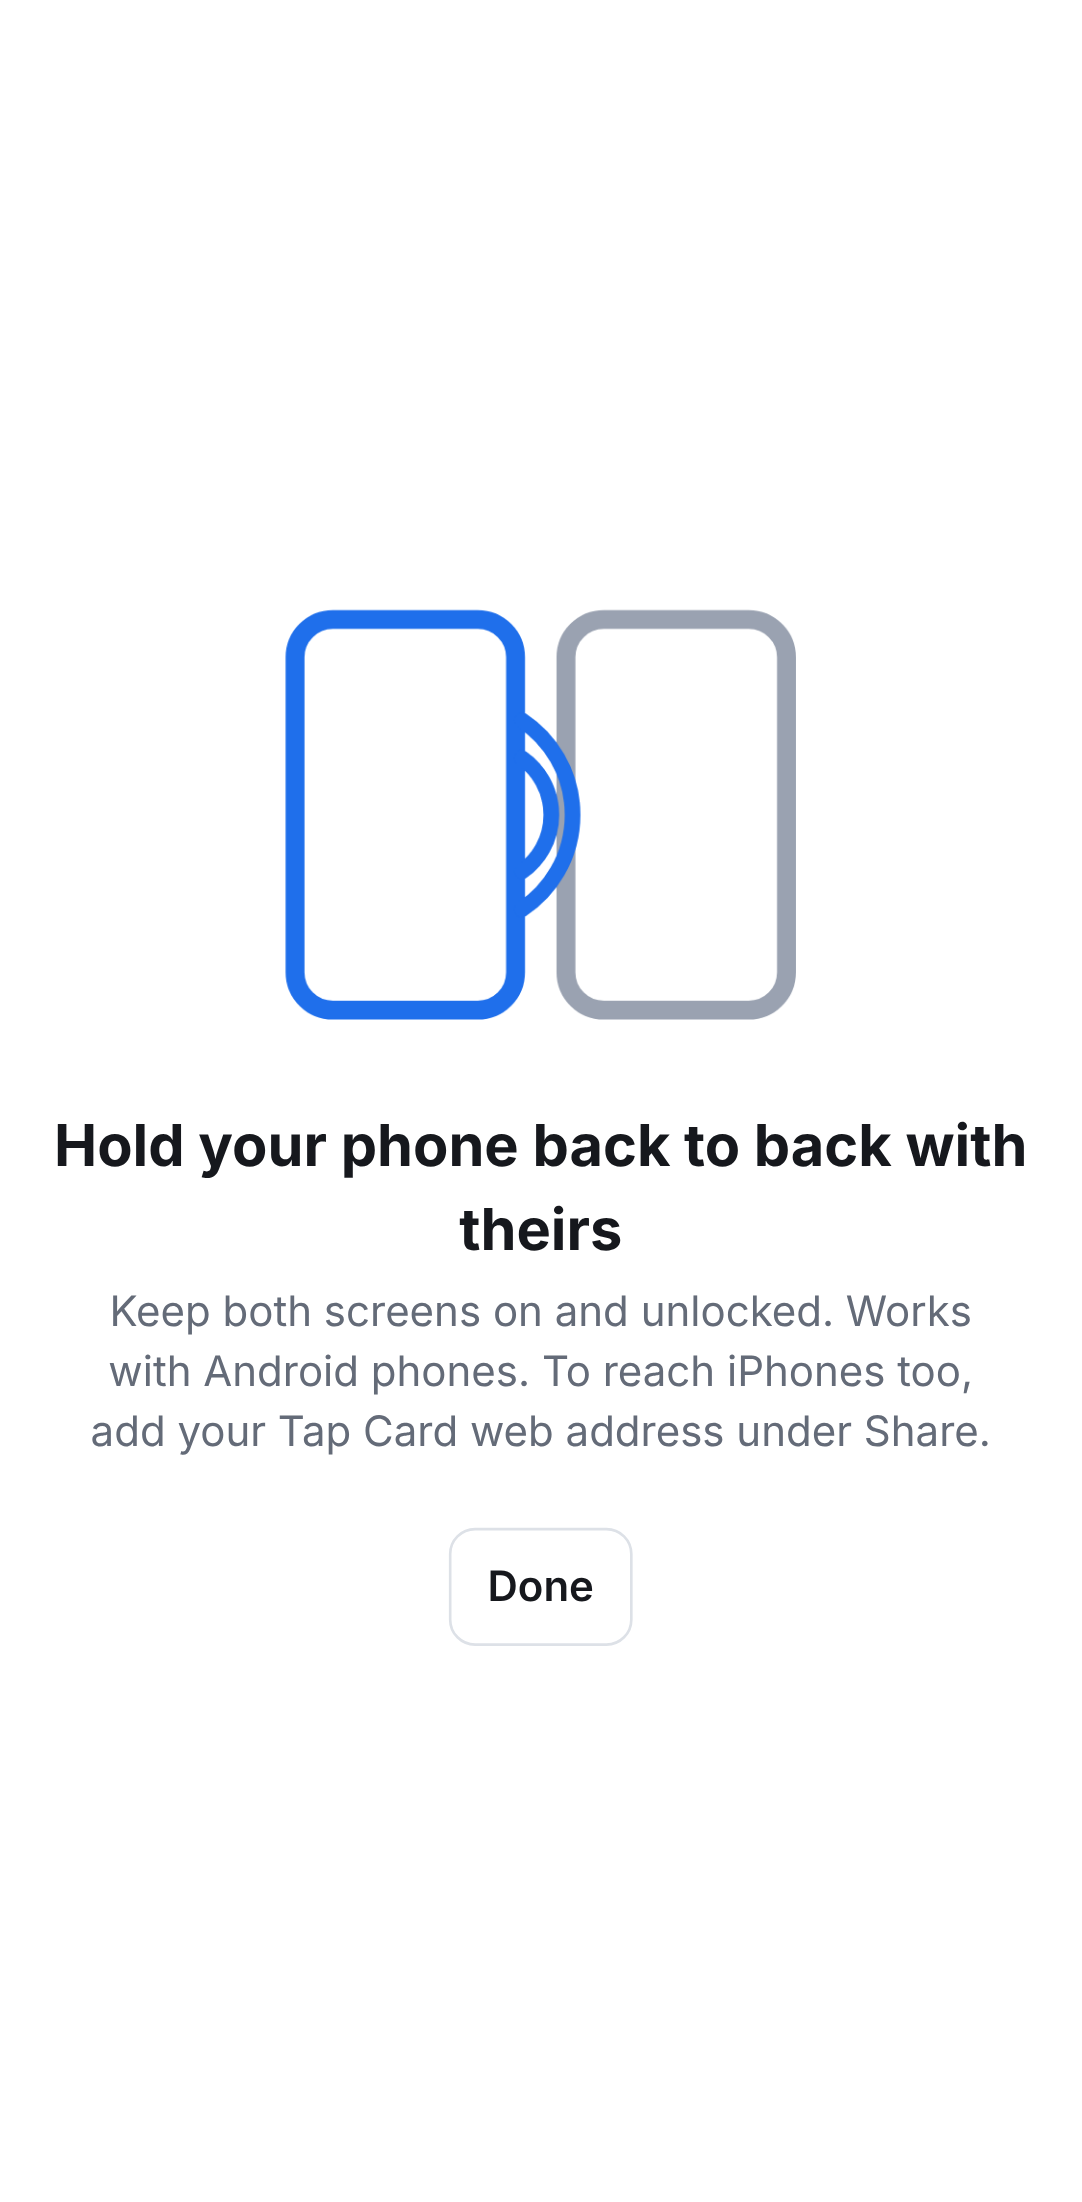
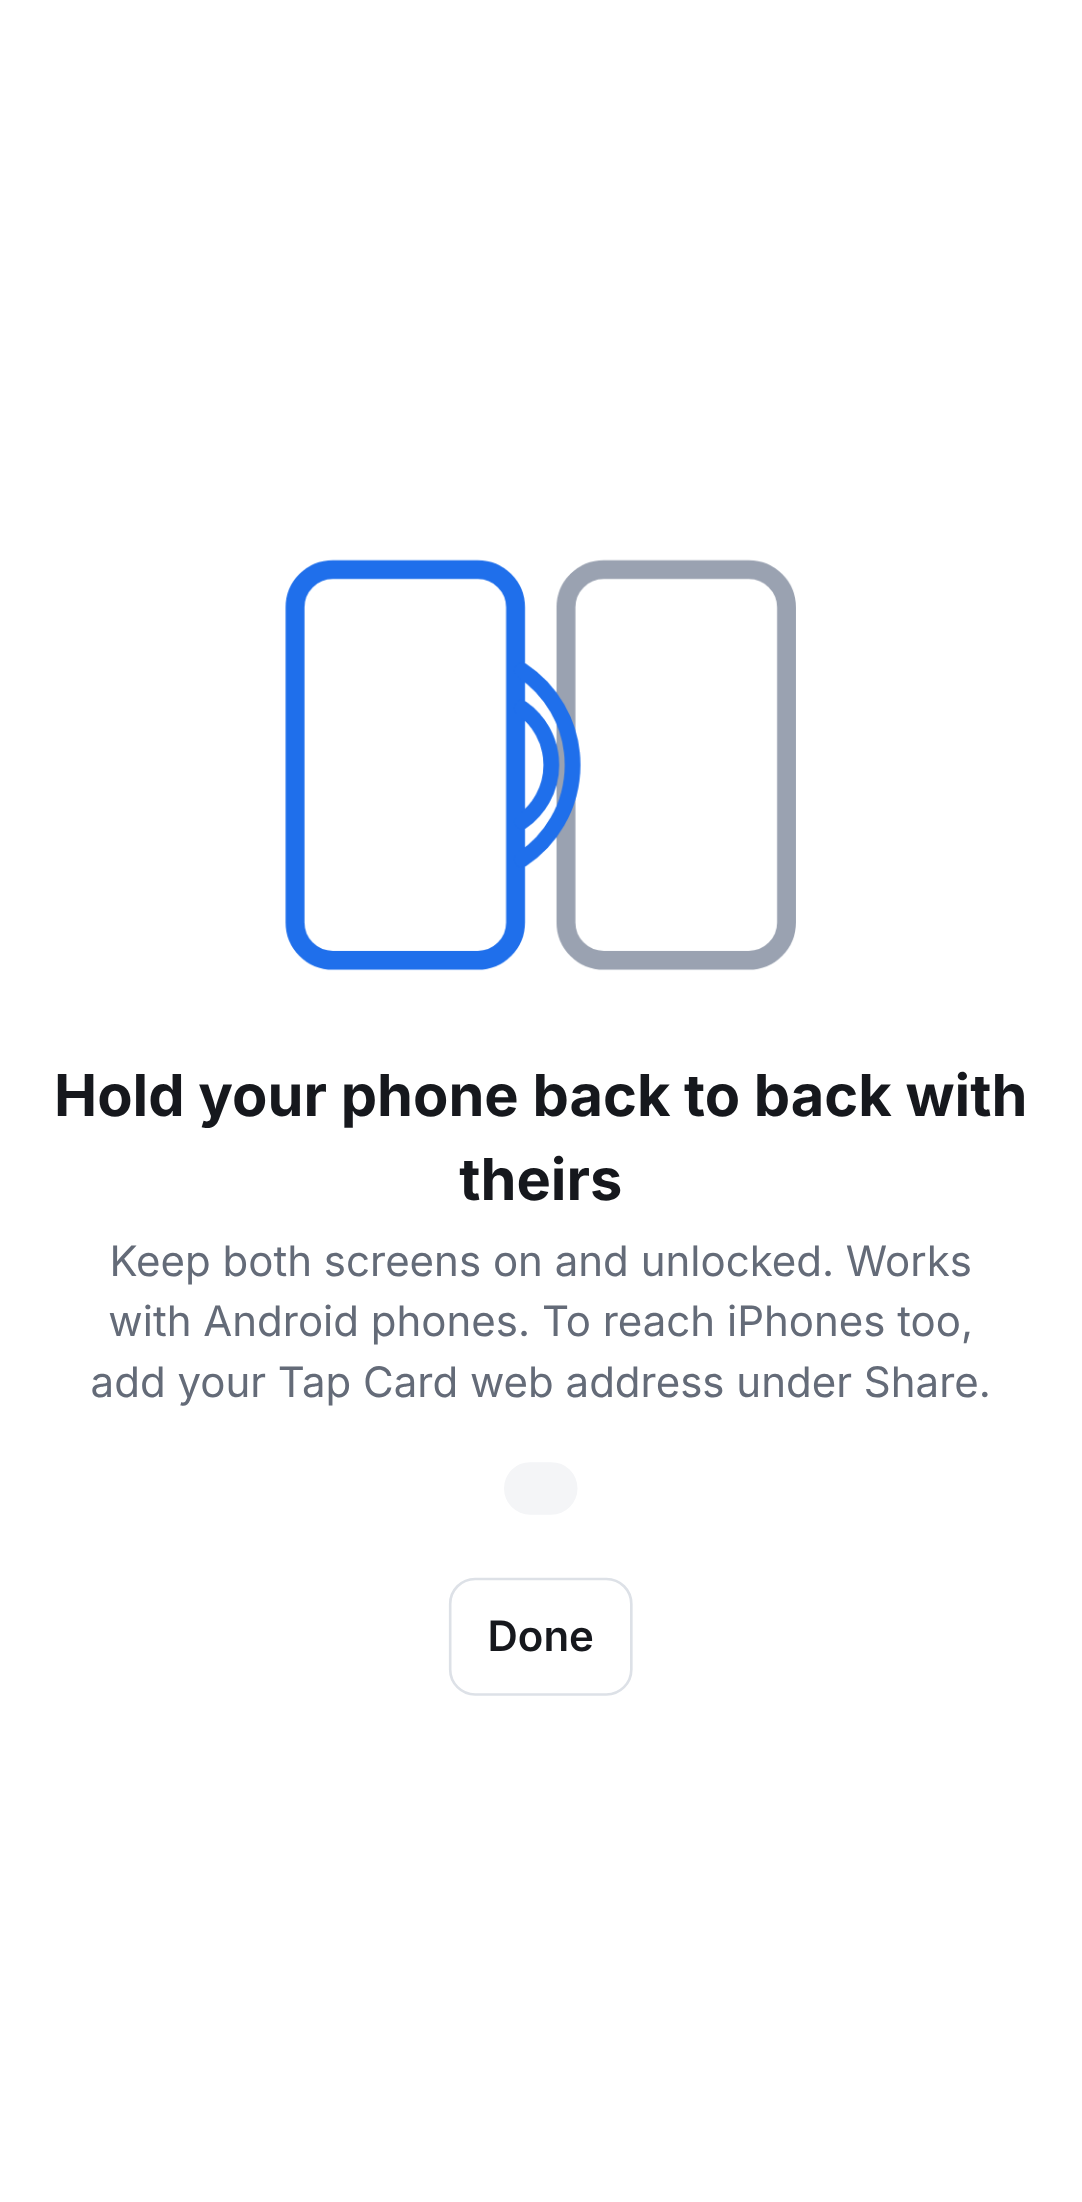
Show what happened on each tap on the Tap phones screen
The tag emulation now records how far the reading phone got (found the
phone, opened the card, read it all), and the tap screen shows it live,
plus whether a card is saved and NFC is on.

Claude-Session: https://claude.ai/code/session_01ChvCX1TJEbsDiLpY4wEDy7

Changed region(s): [[0.0305, 0.4632, 0.9455, 0.6794], [0.244, 0.247, 0.732, 0.4632], [0.427, 0.7103, 0.549, 0.772]]

diff --git a/web/index.html b/web/index.html
@@ -98,6 +98,9 @@
   @keyframes pulse { 50% { transform: scale(1.04); opacity: .8; } }
   @media (prefers-reduced-motion: reduce) { .show .tapart { animation: none; } }
   .show p { max-width: 34ch; }
+  .show .tapstatus { margin-top: 18px; padding: 10px 14px; border-radius: 10px; background: #f4f5f7; color: #16181d; font-weight: 600; }
+  .show .tapstatus.ok { background: #dafbe1; color: #1a7f37; }
+  .show .tapstatus.warn { background: #fff8c5; color: #7d4e00; }
   .show button { margin-top: 24px; background: #fff; color: #16181d; border-color: #dde1e7; }
   [hidden] { display: none !important; }
 </style>
@@ -190,6 +193,7 @@
   </svg>
   <h3>Hold your phone back to back with theirs</h3>
   <p id="tapHint">Keep both screens on. Their phone shows your card in a second or two.</p>
+  <p class="tapstatus" id="tapStatus" role="status"></p>
   <button type="button" id="tapClose">Done</button>
 </div>
 
@@ -403,11 +407,37 @@
       : "Keep both screens on and unlocked. Works with Android phones. To reach iPhones too, add your Tap Card web address under Share.";
     $("tapView").hidden = false;
     native.enterTapMode();
+    tapOpenedAt = Date.now();
+    showTapStatus(); tapTimer = setInterval(showTapStatus, 700);
   }
   function closeTap() {
     if ($("tapView").hidden) return;
     $("tapView").hidden = true;
+    clearInterval(tapTimer);
     native?.exitTapMode();
+  }
+
+  // Live status on the tap screen: what a tap sends, and how far the last tap got.
+  let tapOpenedAt = 0, tapTimer = 0;
+  function showTapStatus() {
+    let st; try { st = JSON.parse(native.tapStatus()); } catch { return; }
+    const el = $("tapStatus");
+    const say = (msg, cls = "") => { el.textContent = msg; el.className = "tapstatus " + cls; };
+    const sinceOpen = (Date.now() - tapOpenedAt) / 1000;
+    const tapped = st.secondsAgo >= 0 && st.secondsAgo <= sinceOpen + 1;
+    if (!st.nfcOn) return say("NFC is off on this phone. Turn it on in Settings.", "warn");
+    if (st.kind === "none") return say("No card saved yet. Press Done and fill in your details.", "warn");
+    if (!tapped) return say(st.kind === "link"
+      ? "Ready: a tap sends the link to your card."
+      : "Ready: a tap sends your contact (Android phones only).");
+    switch (st.stage) {
+      case "MESSAGE_READ": return say(st.kind === "link"
+        ? "✓ Their phone read your card."
+        : "✓ Their phone read your contact. (iPhones ignore contacts: add your web address to reach them.)", "ok");
+      case "NDEF_SELECTED": return say("Their phone started reading but the phones moved apart. Hold them still for 2 seconds.", "warn");
+      case "APP_SELECTED": return say("Their phone found yours but didn't read the card. Hold still for 2 seconds and try again.", "warn");
+      case "NO_CARD": return say("Their phone connected, but no card was saved. Press Done and fill in your details.", "warn");
+    }
   }
   $("tapClose").addEventListener("click", closeTap);
   // Android back button: close an open full-screen view instead of leaving the app.

diff --git a/android/nfc-core/src/main/kotlin/app/tapcard/nfc/Type4Tag.kt b/android/nfc-core/src/main/kotlin/app/tapcard/nfc/Type4Tag.kt
@@ -18,6 +18,11 @@ class Type4Tag(ndefMessage: ByteArray) {
     private var appSelected = false
     private var selected: ByteArray? = null
 
+    /** How far the reading phone got. Useful to tell someone why a tap didn't work. */
+    enum class Progress { NOTHING, APP_SELECTED, NDEF_SELECTED, MESSAGE_READ }
+    var progress = Progress.NOTHING
+        private set
+
     init {
         require(ndefMessage.size <= MAX_NDEF_SIZE - 2) { "NDEF message too large: ${ndefMessage.size} bytes" }
         ndefFile = byteArrayOf((ndefMessage.size ushr 8).toByte(), ndefMessage.size.toByte()) + ndefMessage
@@ -57,7 +62,9 @@ class Type4Tag(ndefMessage: ByteArray) {
         return when (p1) {
             0x04 -> { // select by application id
                 if (data.contentEquals(NDEF_AID)) {
-                    appSelected = true; selected = null; SW_OK
+                    appSelected = true; selected = null
+                    if (progress < Progress.APP_SELECTED) progress = Progress.APP_SELECTED
+                    SW_OK
                 } else SW_FILE_NOT_FOUND
             }
             0x00 -> { // select by file id
@@ -67,6 +74,7 @@ class Type4Tag(ndefMessage: ByteArray) {
                     data.contentEquals(NDEF_FILE_ID) -> ndefFile
                     else -> return SW_FILE_NOT_FOUND
                 }
+                if (selected === ndefFile && progress < Progress.NDEF_SELECTED) progress = Progress.NDEF_SELECTED
                 SW_OK
             }
             else -> SW_WRONG_P1P2
@@ -79,6 +87,7 @@ class Type4Tag(ndefMessage: ByteArray) {
         // Le is the last byte for a short APDU; 0 means 256.
         val le = if (apdu.size >= 5) (apdu[apdu.size - 1].toInt() and 0xFF).let { if (it == 0) 256 else it } else 256
         val end = minOf(file.size, offset + le)
+        if (file === ndefFile && end == file.size && offset > 0) progress = Progress.MESSAGE_READ
         return file.copyOfRange(offset, end) + SW_OK
     }
 

diff --git a/android/nfc-core/src/test/kotlin/app/tapcard/nfc/Type4TagTest.kt b/android/nfc-core/src/test/kotlin/app/tapcard/nfc/Type4TagTest.kt
@@ -69,7 +69,17 @@ class Type4TagTest {
     @Test fun phoneReadsBackTheExactUrlMessage() {
         val url = "https://someone.github.io/tapcard/#c=" + "x".repeat(280) // a realistic, multi-chunk card link
         val msg = Ndef.uriMessage(url)
-        assertContentEquals(msg, readLikeAPhone(Type4Tag(msg)))
+        val tag = Type4Tag(msg)
+        assertEquals(Type4Tag.Progress.NOTHING, tag.progress)
+        assertContentEquals(msg, readLikeAPhone(tag))
+        assertEquals(Type4Tag.Progress.MESSAGE_READ, tag.progress)
+    }
+
+    @Test fun progressStopsWhereTheReaderStopped() {
+        val tag = Type4Tag(Ndef.uriMessage("https://a.b/"))
+        tag.process(selectApp); assertEquals(Type4Tag.Progress.APP_SELECTED, tag.progress)
+        tag.process(selectCc); tag.process(read(0, 15)); assertEquals(Type4Tag.Progress.APP_SELECTED, tag.progress)
+        tag.process(selectNdef); tag.process(read(0, 2)); assertEquals(Type4Tag.Progress.NDEF_SELECTED, tag.progress)
     }
 
     @Test fun phoneReadsBackALargeVcard() {

diff --git a/android/app/src/main/java/app/tapcard/MainActivity.kt b/android/app/src/main/java/app/tapcard/MainActivity.kt
@@ -148,6 +148,24 @@ class MainActivity : Activity() {
             CardStore.update(this@MainActivity, message)
         }
 
+        /** What a tap sends right now and what happened on the last tap, as JSON for the page. */
+        @JavascriptInterface
+        fun tapStatus(): String {
+            val msg = CardStore.message(this@MainActivity)
+            val kind = when {
+                msg == null -> "none"
+                msg.size > 3 && (msg[0].toInt() and 0x07) == 0x01 && msg[3] == 'U'.code.toByte() -> "link"
+                else -> "contact"
+            }
+            return JSONObject()
+                .put("kind", kind)
+                .put("bytes", msg?.size ?: 0)
+                .put("stage", TapLog.stage)
+                .put("secondsAgo", TapLog.secondsAgo())
+                .put("nfcOn", nfc?.isEnabled == true)
+                .toString()
+        }
+
         @JavascriptInterface
         fun enterTapMode() = runOnUiThread { tapMode = true; startListening() }
 

diff --git a/android/app/src/main/java/app/tapcard/TapLog.kt b/android/app/src/main/java/app/tapcard/TapLog.kt
@@ -1,0 +1,21 @@
+package app.tapcard
+
+import android.os.SystemClock
+
+/** What happened on the most recent tap, so the app can tell the person why a tap didn't work. */
+object TapLog {
+    /** NO_CARD, or a Type4Tag.Progress name: APP_SELECTED, NDEF_SELECTED, MESSAGE_READ. */
+    @Volatile var stage: String = ""
+        private set
+    @Volatile private var at: Long = 0
+
+    fun record(stage: String) {
+        val now = SystemClock.elapsedRealtime()
+        // Readers often reconnect right after reading; don't let that hide a successful read.
+        if (this.stage == "MESSAGE_READ" && stage != "MESSAGE_READ" && now - at < 4000) return
+        this.stage = stage; at = now
+    }
+
+    /** Seconds since the last tap, or -1 if there hasn't been one since the app started. */
+    fun secondsAgo(): Long = if (at == 0L) -1 else (SystemClock.elapsedRealtime() - at) / 1000
+}

diff --git a/android/app/src/main/java/app/tapcard/CardHceService.kt b/android/app/src/main/java/app/tapcard/CardHceService.kt
@@ -11,8 +11,13 @@ class CardHceService : HostApduService() {
 
     override fun processCommandApdu(commandApdu: ByteArray, extras: Bundle?): ByteArray {
         val current = tag ?: CardStore.message(this)?.let { Type4Tag(it) }?.also { tag = it }
-            ?: return Type4Tag.SW_FILE_NOT_FOUND // no card set up yet
-        return current.process(commandApdu)
+        if (current == null) { // no card set up yet
+            TapLog.record("NO_CARD")
+            return Type4Tag.SW_FILE_NOT_FOUND
+        }
+        val response = current.process(commandApdu)
+        TapLog.record(current.progress.name)
+        return response
     }
 
     override fun onDeactivated(reason: Int) {
